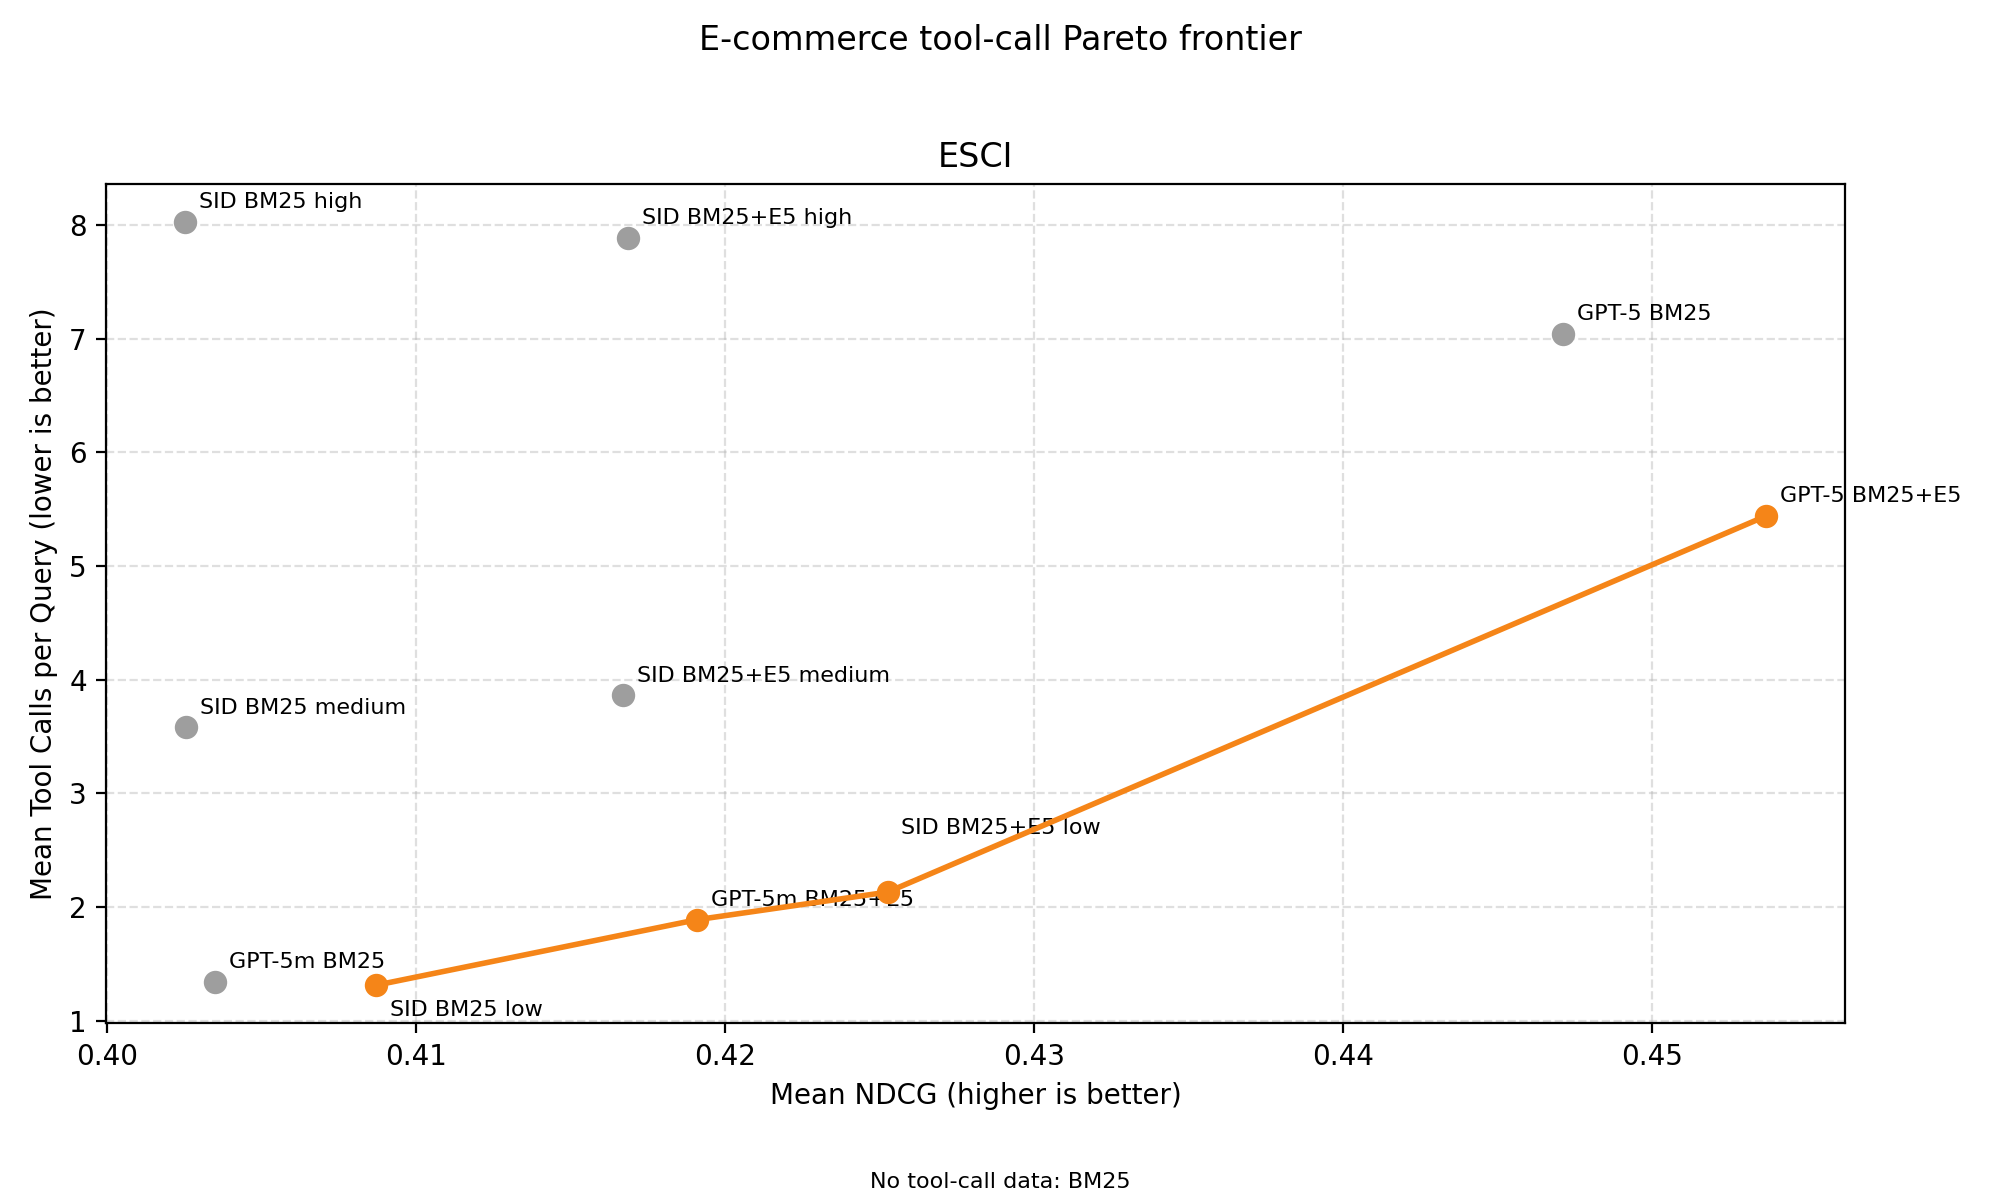
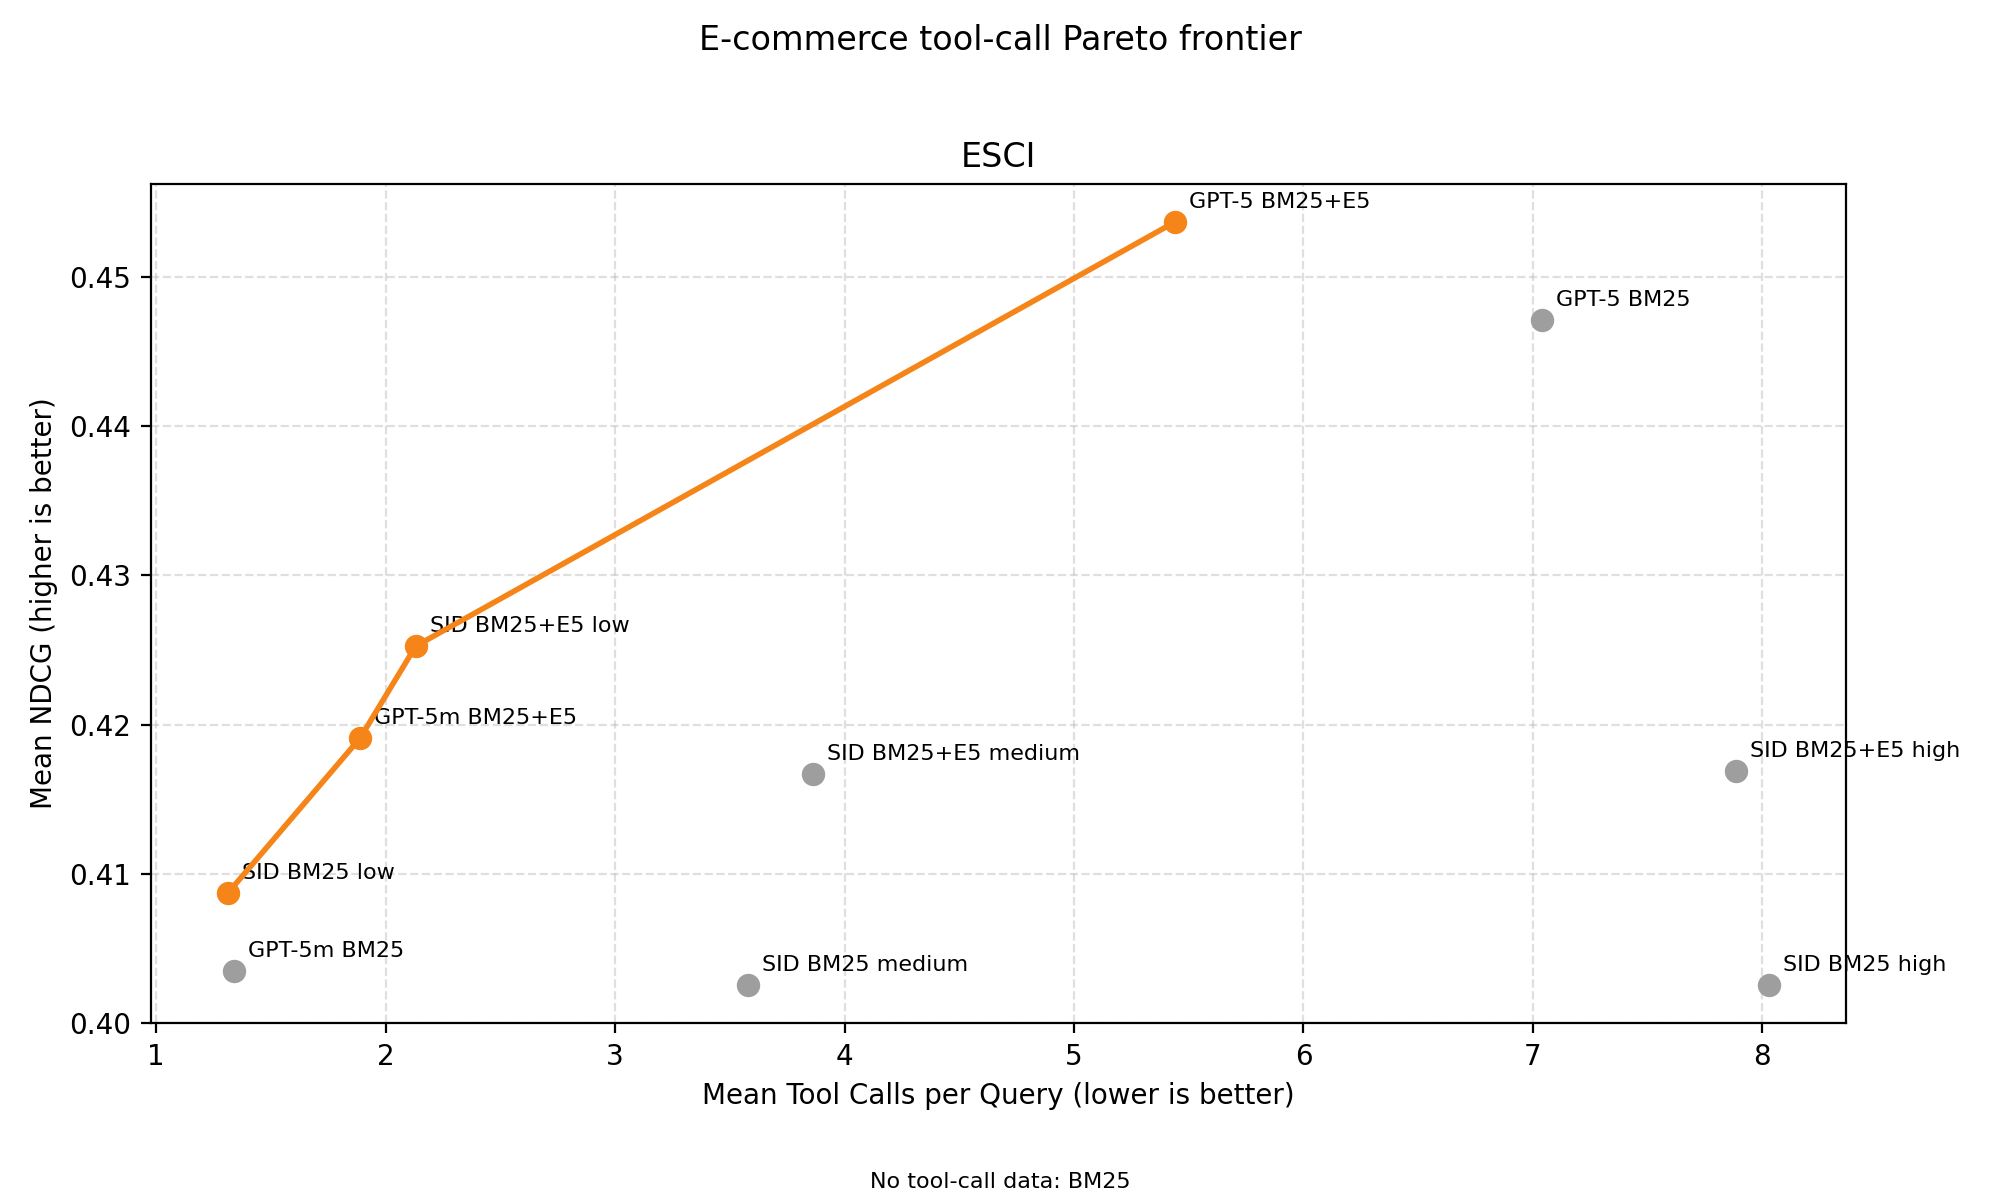
Plot Pareto graphs with resource cost on x-axis
Place mean tool calls on the horizontal axis and mean NDCG on the vertical axis for dataset-specific Pareto plots. Align the PRD with the chart orientation.

diff --git a/scripts/plot_ecom_sid_matrix.py b/scripts/plot_ecom_sid_matrix.py
@@ -125,7 +125,7 @@ def _pareto_front(
         )
         if not dominated:
             frontier.append(point)
-    return sorted(frontier, key=lambda point: float(point["mean_ndcg"]))
+    return sorted(frontier, key=lambda point: float(point["mean_resource.tool_calls"]))
 
 
 def _avoid_label_overlaps(annotations, ax, fig) -> None:
@@ -239,8 +239,8 @@ def plot_pareto_results(input_path: Path, output_path: Path, dataset: str) -> No
         calls = float(point["mean_resource.tool_calls"])
         is_frontier = str(point["strategy"]) in frontier_names
         ax.scatter(
-            ndcg,
             calls,
+            ndcg,
             color="#F58518" if is_frontier else "#9E9E9E",
             s=55,
             zorder=3 if is_frontier else 2,
@@ -248,7 +248,7 @@ def plot_pareto_results(input_path: Path, output_path: Path, dataset: str) -> No
         annotations.append(
             ax.annotate(
                 pareto_labels[str(point["strategy"])],
-                (ndcg, calls),
+                (calls, ndcg),
                 textcoords="offset points",
                 xytext=(5, 5),
                 ha="left",
@@ -257,8 +257,8 @@ def plot_pareto_results(input_path: Path, output_path: Path, dataset: str) -> No
         )
     if frontier:
         ax.plot(
-            [float(point["mean_ndcg"]) for point in frontier],
             [float(point["mean_resource.tool_calls"]) for point in frontier],
+            [float(point["mean_ndcg"]) for point in frontier],
             color="#F58518",
             linewidth=2,
             marker="o",
@@ -267,8 +267,8 @@ def plot_pareto_results(input_path: Path, output_path: Path, dataset: str) -> No
     if not points:
         raise ValueError(f"No NDCG and tool-call results found for dataset={dataset!r}.")
     ax.set_title(dataset.upper())
-    ax.set_xlabel("Mean NDCG (higher is better)")
-    ax.set_ylabel("Mean Tool Calls per Query (lower is better)")
+    ax.set_xlabel("Mean Tool Calls per Query (lower is better)")
+    ax.set_ylabel("Mean NDCG (higher is better)")
     ax.grid(linestyle="--", alpha=0.4)
     ax.set_axisbelow(True)
     fig.suptitle("E-commerce tool-call Pareto frontier")

diff --git a/docs/prd.md b/docs/prd.md
@@ -257,7 +257,7 @@ used in e-commerce). This script outputs, for each variant config yml a CSV with
 Graphs are intended to be some kind of line graph. And we should generate a couple types of graphs
 
 - Retrieval: on LHS the worst variants, on RHS the best variants. Primarilly of NDCG unless otherwise requested
-- Pareto graph: x-axis would be retrieval, y-axis would be resources - whatever is relevant to the experiments
+- Pareto graph: x-axis would be resources, y-axis would be retrieval - whatever is relevant to the experiments
   being run
 
 #### Retrieval graph
